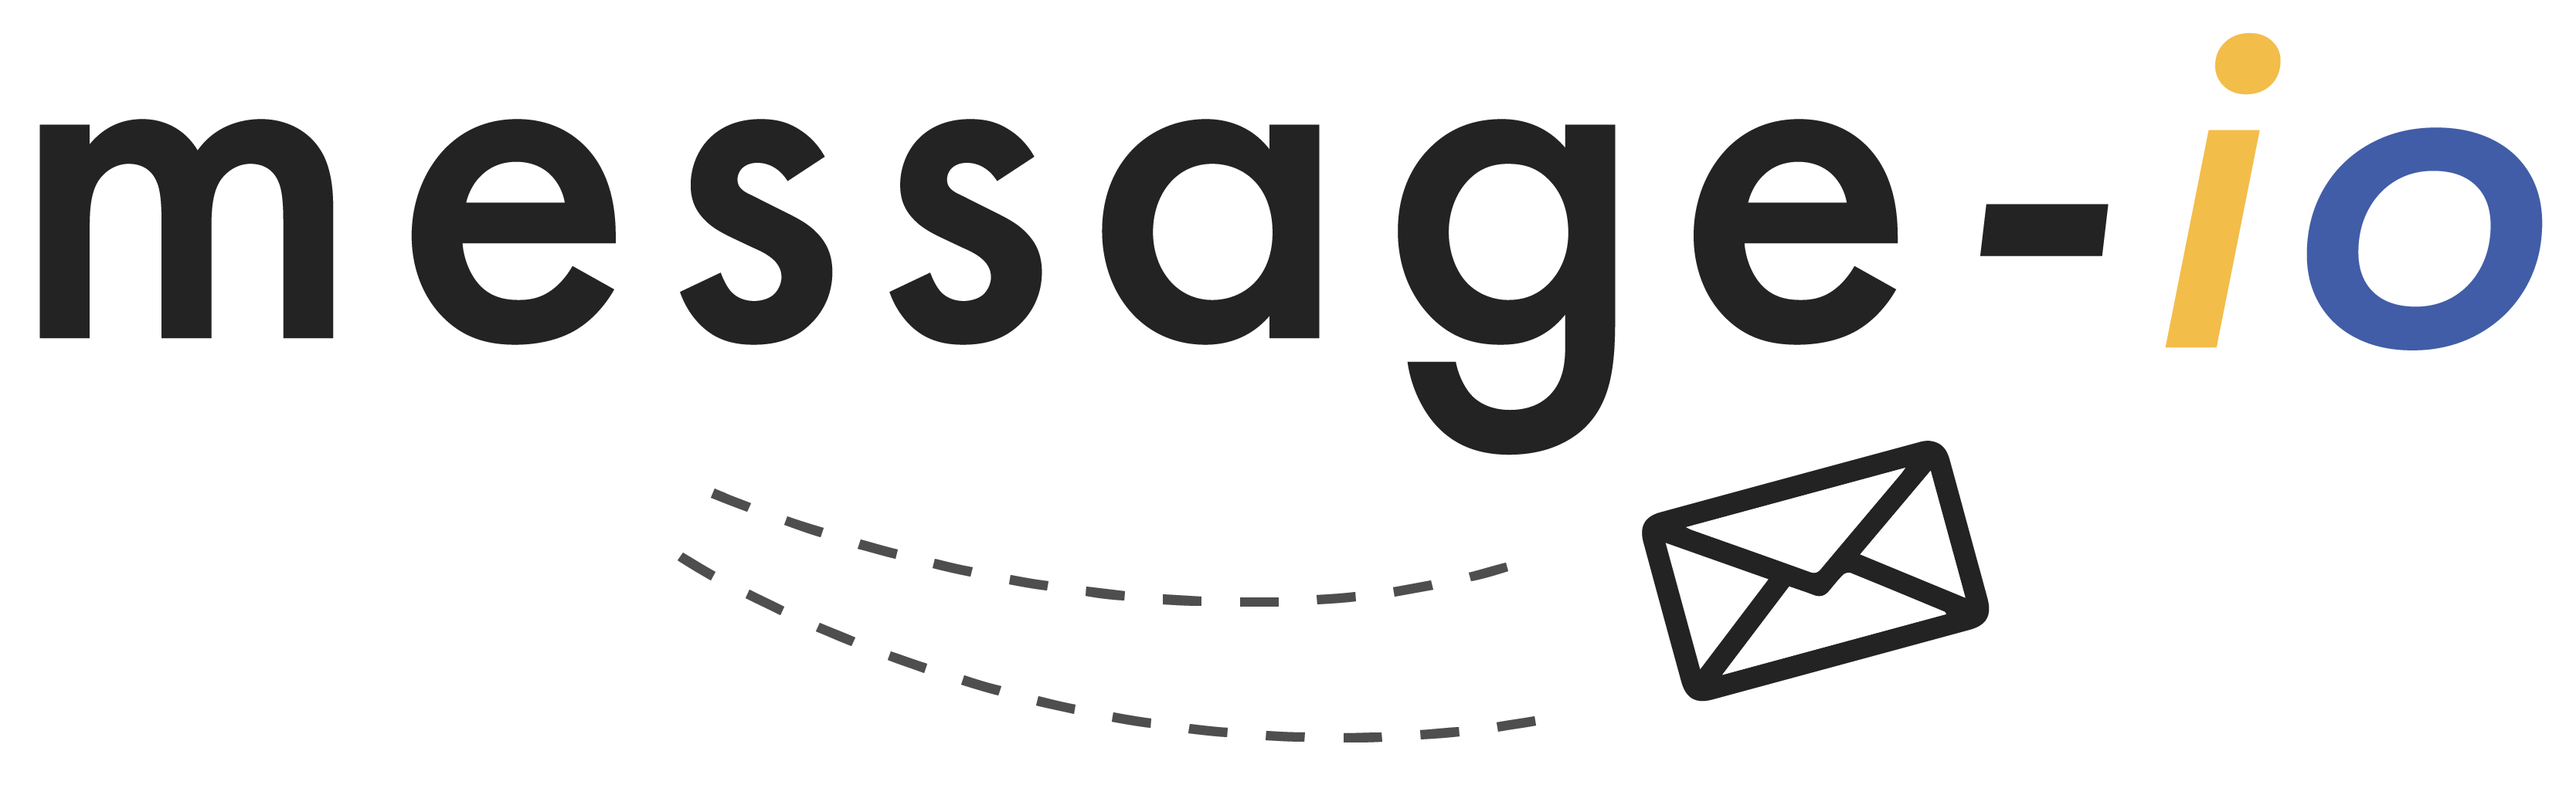
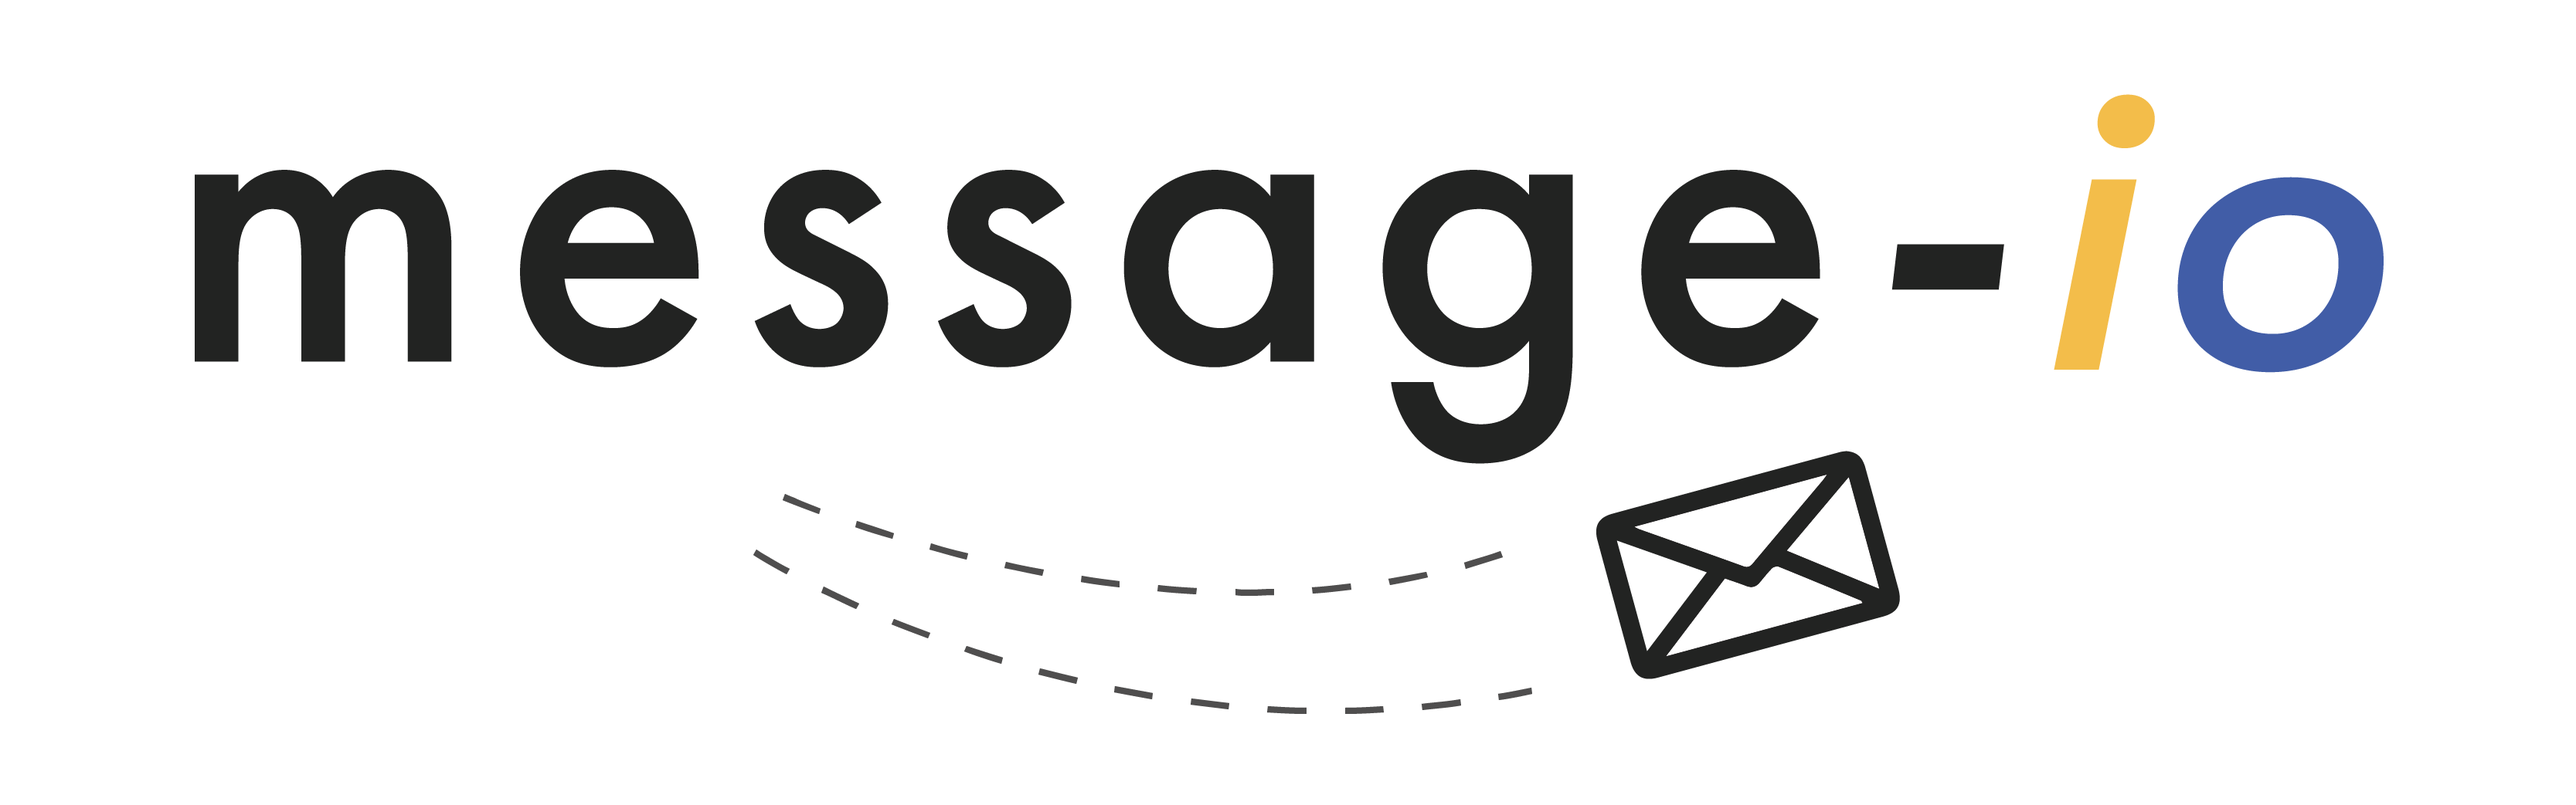
message-io image changes

diff --git a/README.md b/README.md
@@ -6,7 +6,7 @@
 [![](https://img.shields.io/badge/bymeacoffee-donate-yellow)](https://www.buymeacoffee.com/lemunozm)
 
 <p align="center">
-  <img style="padding: 25px 60px" src="docs/images/message-io-title.png" title="message-io">
+  <img src="docs/images/message-io-title.png" title="message-io">
 </p>
 
 `message-io` is a fast and easy-to-use event-driven network library.
